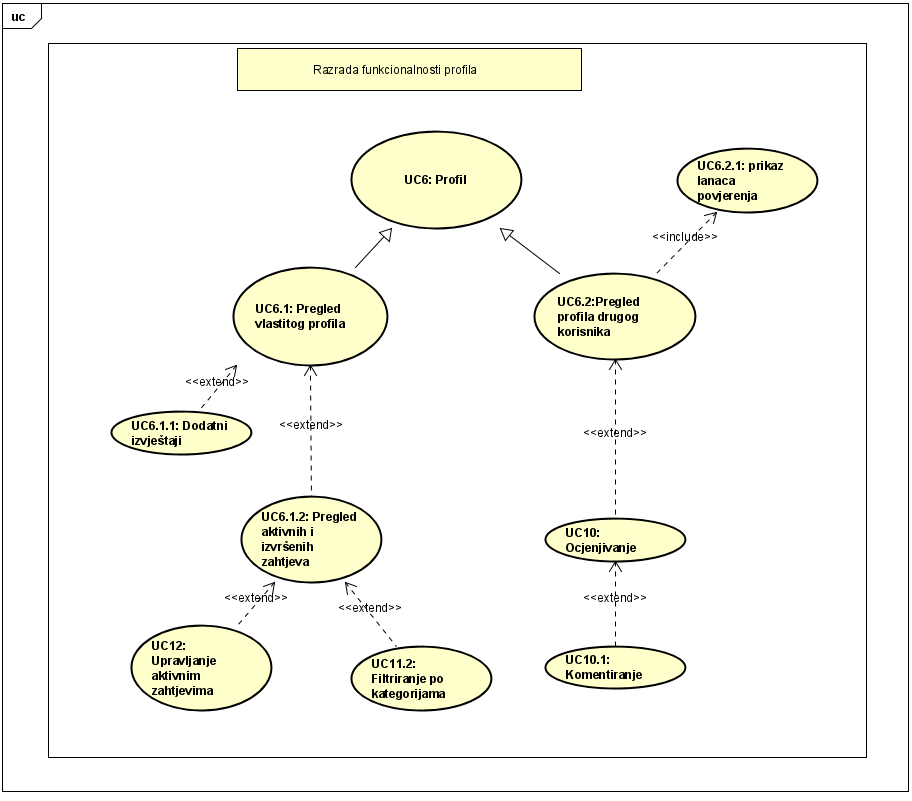
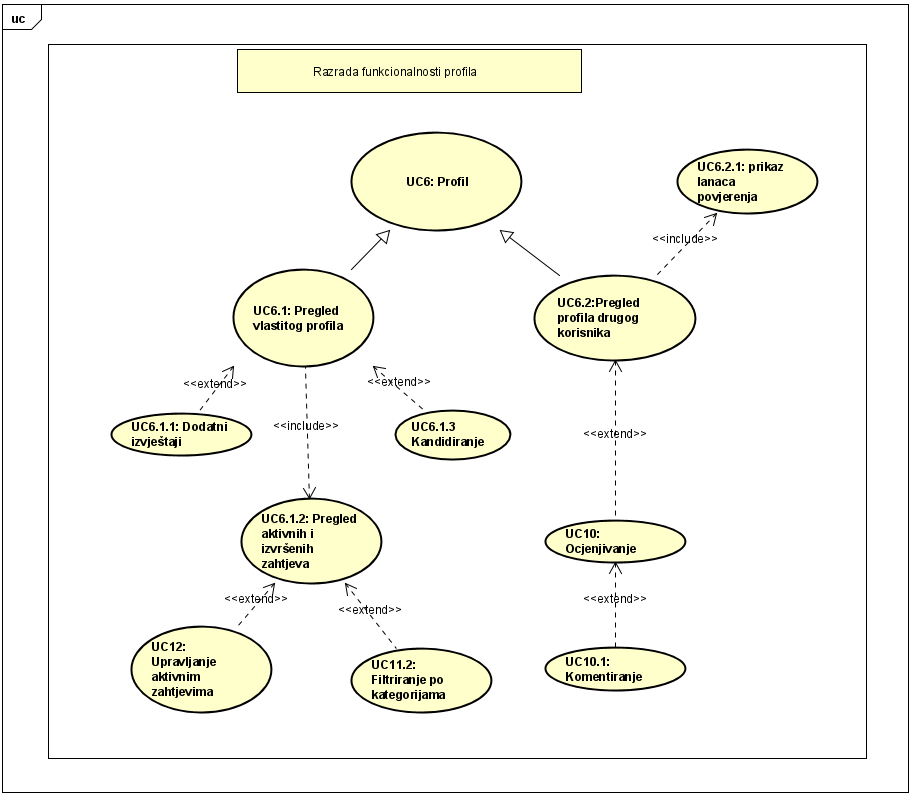
Izmene UC dijagrama

diff --git a/dokumentacija/Specifikacija_programske_potpore.tex b/dokumentacija/Specifikacija_programske_potpore.tex
@@ -129,7 +129,7 @@
 		\end{packed_enum}
 	\end{packed_item}
 \end{packed_item}
-
+\newpage
 \noindent \underbar{\textbf{UC3 -Zadavanje zahtjeva za pomoć}}
 \begin{packed_item}
 	\item \textbf{Glavni sudionik: } Registrirani korisnik
@@ -249,8 +249,19 @@
 	\item  \textbf{Preduvjet:} Korisnik je prijavljen u sustav i kreirao je zahtjeve
 	\item  \textbf{Opis osnovnog tijeka:}
 	\item[] \begin{packed_enum}
-		\item Na vlastitom profilu korisnik odabire opciju „Pregled zahtjeva“.
-		\item 	Otvara mu se pregled svih aktivnih i izvršenih zahtjeva.
+		\item Na vlastitom profilu korisnika vidljivi su mu svi zahtjevi podijeljeni u kategorije.
+	\end{packed_enum}
+\end{packed_item}
+
+\noindent \underbar{\textbf{UC6.1.3 - Kandidiranje }}
+\begin{packed_item}
+	\item \textbf{Glavni sudionik: }Registrirani korisnik
+	\item  \textbf{Cilj:} Kandidiranje za pomagača godine
+	\item  \textbf{Sudionici:} Baza podataka
+	\item  \textbf{Preduvjet:} Korisnik je prijavljen u sustav 
+	\item  \textbf{Opis osnovnog tijeka:}
+	\item[] \begin{packed_enum}
+		\item Na vlastitom profilu korisnik aktivira ili deaktivira gumb za kandidiranje.
 	\end{packed_enum}
 \end{packed_item}
 
@@ -265,15 +276,9 @@
 		\item Otvara se opcija pregleda profila autora zahtjeva
 		\item Iz baze se dohvaća profil o autoru zahtjeva
 	\end{packed_enum}
-	\item  \textbf{Opis mogućih odstupanja:}
-	\item[] \begin{packed_item}
-		\item[1.a] Korisnik čiji profil želimo pregledati je blokiran od strane administratora
-		\item[] \begin{packed_enum}
-			\item Sustav vraća korisnika na početnu stranicu
-		\end{packed_enum}
-	\end{packed_item}
+	
 \end{packed_item}
-\newpage
+
 \noindent \underbar{\textbf{UC6.2.1 - Lanac povjerennja}}
 \begin{packed_item}
 	\item \textbf{Glavni sudionik: } Registrirani korisnik
@@ -312,7 +317,7 @@
 		\end{packed_enum}
 	\end{packed_item}
 \end{packed_item}
-
+\newpage
 \noindent \underbar{\textbf{UC7.1 - Brisanje zahtjeva}}
 \begin{packed_item}
 	\item \textbf{Glavni sudionik: }Administrator
@@ -326,7 +331,7 @@
 		\item Zahtjev se uklanja iz baze podataka
 	\end{packed_enum}
 \end{packed_item}
-\newpage
+
 \noindent \underbar{\textbf{UC8 - Pregled korisnika}}
 \begin{packed_item}
 	
@@ -356,7 +361,7 @@
 		\item Pri pregledu korisnika, administratoru se omogućuje blokiranje korisničkih računa
 	\end{packed_enum}
 \end{packed_item}
-
+\newpage
 \noindent \underbar{\textbf{UC9 - Dodjela administrativnog područja}}
 \begin{packed_item}
 	\item \textbf{Glavni sudionik: }Administrator
@@ -368,7 +373,7 @@
 		\item Administratoru preko vlastite lokacije sustav dodjeljuje administrativno područje
 	\end{packed_enum}
 \end{packed_item}
-\newpage
+
 \noindent \underbar{\textbf{UC10 - Ocjenjivanje}}
 \begin{packed_item}
 	\item \textbf{Glavni sudionik: } Registrirani korisnik
@@ -423,7 +428,7 @@
 	\item[] \begin{packed_item}
 		\item[1.a] 	Sustav ne može očitati korisnikovu lokaciju
 		\item[] \begin{packed_enum}
-			\item Korisniku se šalje obavijest da unese svoju lokaciju
+			\item Korisniku se prikazuju samo zahtjevi bez lokacije
 		\end{packed_enum}
 	\end{packed_item}
 \end{packed_item}
@@ -485,10 +490,10 @@
 	\item  \textbf{Preduvjet:} Korisnik je prijavljen u sustav, zahtjev je odabran za izvršavanje od strane korisnika
 	\item  \textbf{Opis osnovnog tijeka:}
 	\item[] \begin{packed_enum}
-		\item 	Nakon što je korisnik izvršio zadatak odabire gumb „Zadatak izvršen“. 
+		\item 	Nakon što je korisnik izvršio zadatak odabire gumb „Označi izvršen“. 
 	\end{packed_enum}
 \end{packed_item}
-
+\newpage
 \noindent \underbar{\textbf{UC13 - Odabir zahtjeva za izvršavanje}}
 \begin{packed_item}
 	\item \textbf{Glavni sudionik: }Registrirani korisnik
@@ -502,13 +507,13 @@
 		\item 	Slijedi dogovor korisnika oko zahtjeva
 	\end{packed_enum}
 \end{packed_item}
-\newpage
+
 \noindent \underbar{\textbf{UC14 - Razmjena notifikacija}}
 \begin{packed_item}
 	\item \textbf{Glavni sudionik: } Registrirani korisnik
 	\item  \textbf{Cilj:} Dogovor oko izvršavanja zahtjeva
 	\item  \textbf{Sudionici:} Baza podataka
-	\item  \textbf{Preduvjet:} Korisnik je prijavljen u sustav, korisnik je odabrao zahtjev za izvršavanje
+	\item  \textbf{Preduvjet:} Korisnik je prijavljen u sustav, korisnik je odabrao zahtjev za izvršavanje, autor zahtjeva ga je potvrdio za izvršitelja
 	\item  \textbf{Opis osnovnog tijeka:}
 	\item[] \begin{packed_enum}
 		\item Nakon odabira zahtjeva kojeg korisnik želi izvršiti omogućuje se razmjena notifikacija radi dogovora oko izvršenja zahtjeva 

diff --git a/dokumentacija/Dnevnik_promjena_dokumentacije.tex b/dokumentacija/Dnevnik_promjena_dokumentacije.tex
@@ -48,6 +48,9 @@
 			1.5.1 & Popravci cijele dokumentacije & Bokšić & 12.1.2021. \\[3pt] 	\hline
 			1.6 & Pisanje zaključka i budućeg rada & Lipovac, Oreč & 13.1.2021. \\[3pt] 	\hline
 			1.7 & Izmjena slika dijagrama razreda & Roček, Bokšić & 14.1.2021. \\[3pt] 	\hline
+			1.8 & Izmjena slika UC dijagrama i opisa istih & Bokšić & 14.1.2021. \\[3pt] 	\hline
+			1.9 & Puštanje u pogon & Roček & 14.1.2021. \\[3pt] 	\hline
+			1.9.1 & Dijagrami pregleda promjena & Bokšić & 14.1.2021. \\[3pt] 	\hline
 			\textbf{2.0} &  Konačni tekst predloška dokumentacije & Bokšić & 14.1.2021. \\[3pt] 	\hline
 			
 		\end{longtabu}

diff --git a/dokumentacija/Dodatak.tex b/dokumentacija/Dodatak.tex
@@ -235,6 +235,18 @@
 		\end{packed_item}
 		%
 		
+		\item  sastanak
+		\item[] \begin{packed_item}
+			\item Datum: 14. siječnja 2021.
+			\item Prisustvovali: J.Roček, I. Bokšić
+			\item Teme sastanka:
+			\begin{packed_item}
+				\item pokazivanje novih funkcionalnosti asistentici
+				\item pregled dokumentacije
+			\end{packed_item}
+		\end{packed_item}
+		%
+		
 	\end{packed_enum}
 
 		
